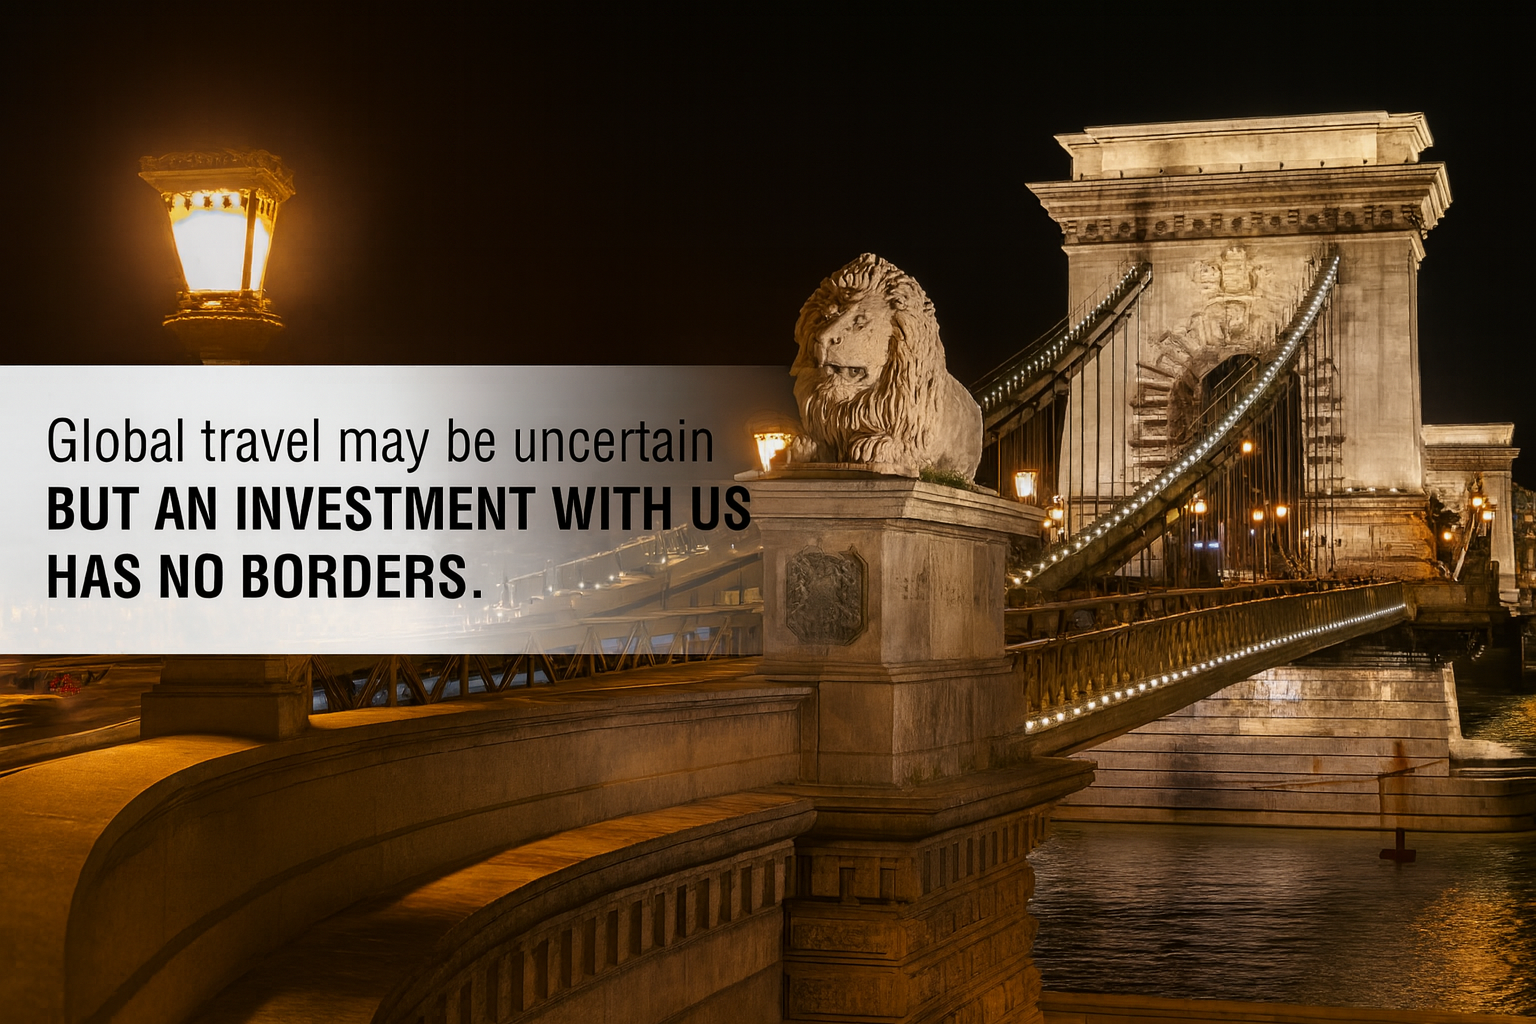
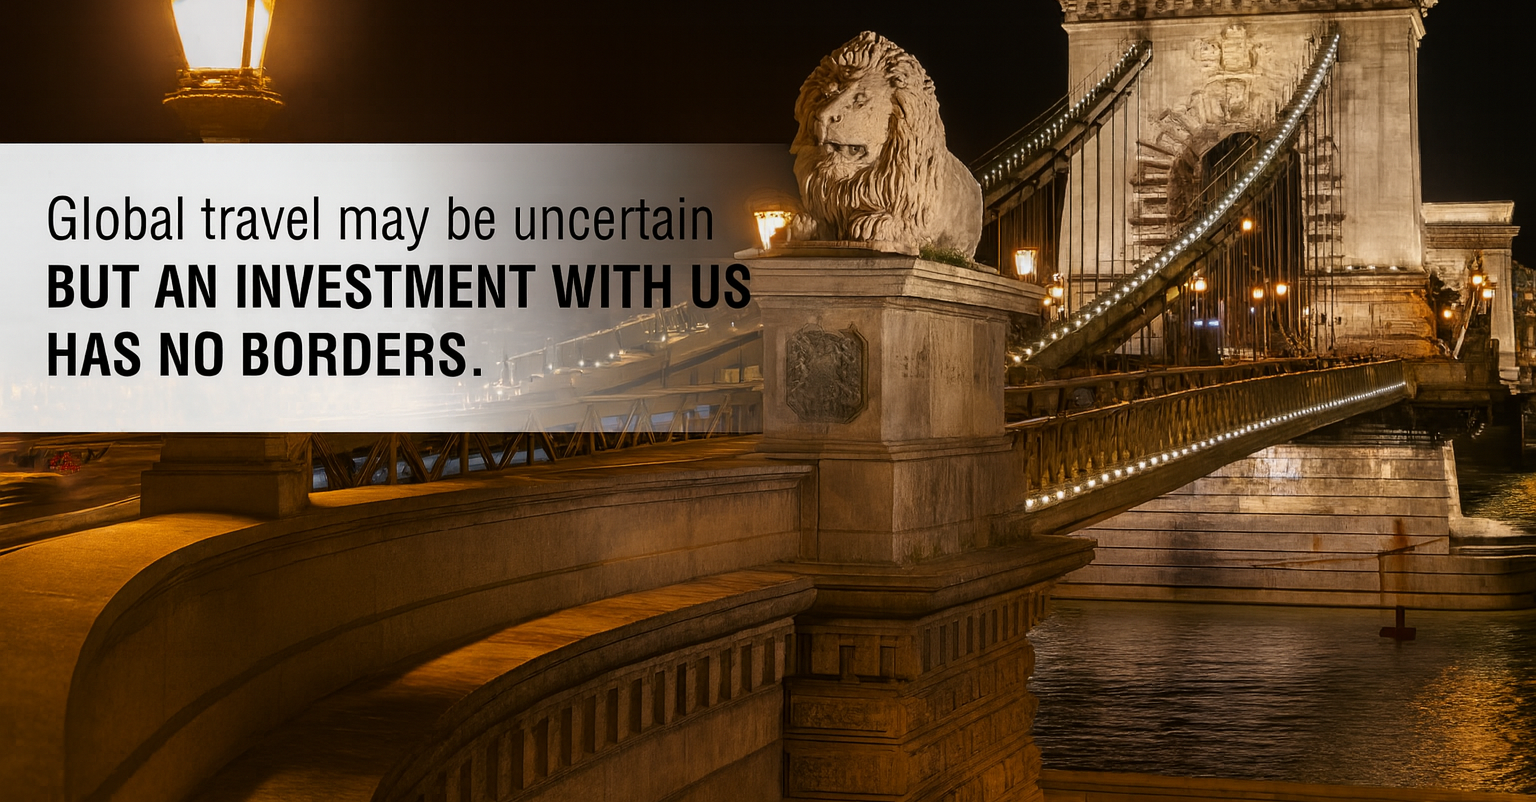
changes

diff --git a/src/components/Hero.jsx b/src/components/Hero.jsx
@@ -1,62 +1,66 @@
 // src/components/Hero.jsx
-import React from 'react';
-import landingImage from '../assets/landing_page1.png';
+import React from "react";
+import landingImage from "../assets/landing_page1.png";
 
 const Hero = () => {
   return (
-    <section className="relative w-full min-h-screen flex flex-col justify-start overflow-hidden">
-      {/* Background Image with better sizing */}
-      <div className="absolute inset-0 z-0">
+    <section
+      id="Home"
+      className="relative w-full flex flex-col items-center justify-start overflow-hidden"
+    >
+      {/* Image Wrapper */}
+      <div className="relative w-full">
+        {/* HERO IMAGE (NO CROPPING, TOP ALIGNED, RESPONSIVE) */}
         <img
           src={landingImage}
           alt="Hero Background"
-          className="w-fit h-fit object-cover object-center"
-          style={{
-            minHeight: '30vh',
-            minWidth: '20vw'
-          }}
+          className="w-full h-auto object-contain object-top block"
         />
-      </div>
-      {/* Content - Positioned at LEFT-TOP */}
-      <div className="relative z-20 w-2/3 text-white pt-2 sm:pt-14 md:pt-32 px-10">
-        <div className="max-w-4xl mx-auto text-left">
-          <h1 className="absolute text-3xl sm:text-5xl md:text-6xl font-bold mb-4 leading-tight px-0 py-0">
-            Welcome to Orczy Group
-          </h1>
-        </div>
+
+        {/* BUTTON (RESPONSIVE BOTTOM-RIGHT OF IMAGE) */}
+        <a
+          href="#Project"
+          className="
+            absolute 
+            bottom-4 right-4 
+            sm:bottom-6 sm:right-6 
+            border-2 text-zinc-50 border-white 
+            px-4 py-2 sm:px-5 sm:py-2.5 
+            rounded-full 
+            hover:bg-white hover:text-black 
+            transition-all duration-300 
+            text-sm sm:text-base 
+            font-medium 
+            whitespace-nowrap 
+            bg-black/60 backdrop-blur-sm shadow-lg
+          "
+          onClick={(e) => {
+            e.preventDefault();
+            window.history.pushState(null, "", "#Project");
+            document
+              .querySelector("#Project")
+              ?.scrollIntoView({ behavior: "smooth" });
+          }}
+        >
+          Explore Projects
+        </a>
       </div>
 
-      {/* Buttons - Positioned at RIGHT-BOTTOM */}
-      <div className="absolute bottom-8 right-8 z-20">
-  <a
-    href="#Project"
-    className="inline-block border-2 text-zinc-50 border-white px-4 sm:px-5 md:px-6 lg:px-8 py-2 sm:py-2 md:py-3 rounded-full hover:bg-white hover:text-black transition-all duration-300 text-sm sm:text-base md:text-lg font-medium text-center whitespace-nowrap min-w-[140px] sm:min-w-[160px] md:min-w-[180px] bg-black/70 backdrop-blur-sm"
-    onClick={(e) => {
-      e.preventDefault();
-      window.history.pushState(null, "", "#Project");
-      document.querySelector("#Project")?.scrollIntoView({ behavior: "smooth" });
-    }}
-  >
-    Explore Projects
-  </a>
-</div>
-      {/* Scroll Indicator */}
-      <div className="absolute bottom-4 left-1/2 transform -translate-x-1/2 z-20">
-        <div className="animate-bounce">
-          <svg 
-            className="w-6 h-6 text-white" 
-            fill="none" 
-            stroke="currentColor" 
-            viewBox="0 0 24 24"
-          >
-            <path 
-              strokeLinecap="round" 
-              strokeLinejoin="round" 
-              strokeWidth={2} 
-              d="M19 14l-7 7m0 0l-7-7m7 7V3" 
-            />
-          </svg>
-        </div>
+      {/* SCROLL ICON */}
+      <div className="mt-8 animate-bounce">
+        <svg
+          className="w-6 h-6 text-white"
+          fill="none"
+          stroke="currentColor"
+          viewBox="0 0 24 24"
+        >
+          <path
+            strokeLinecap="round"
+            strokeLinejoin="round"
+            strokeWidth={2}
+            d="M19 14l-7 7m0 0l-7-7m7 7V3"
+          />
+        </svg>
       </div>
     </section>
   );
